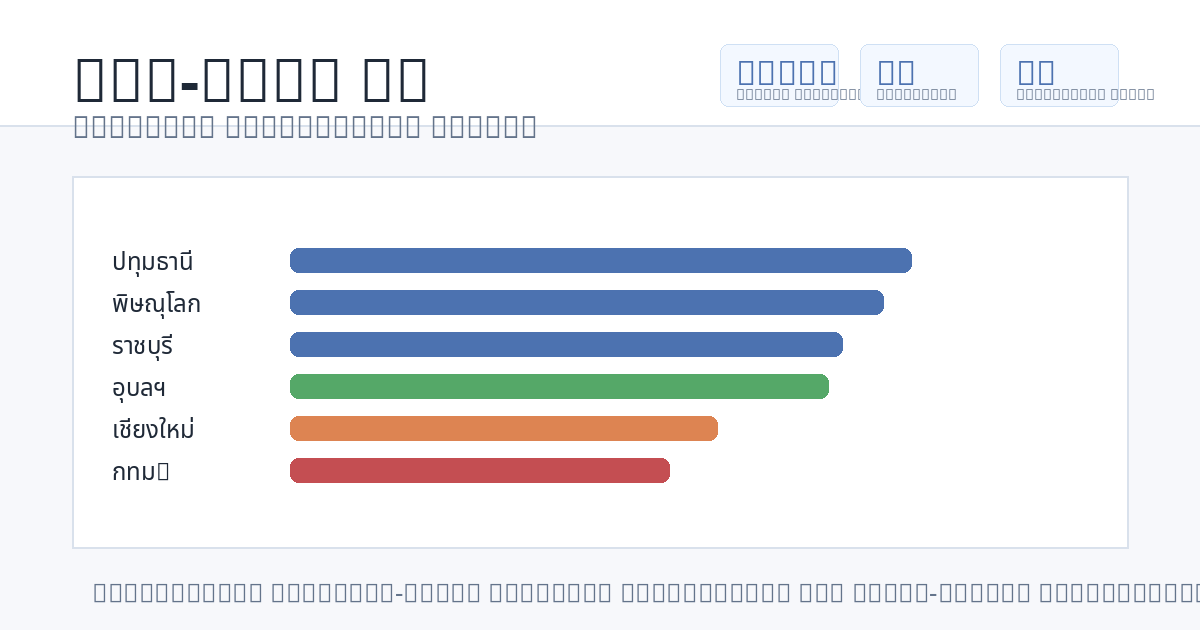
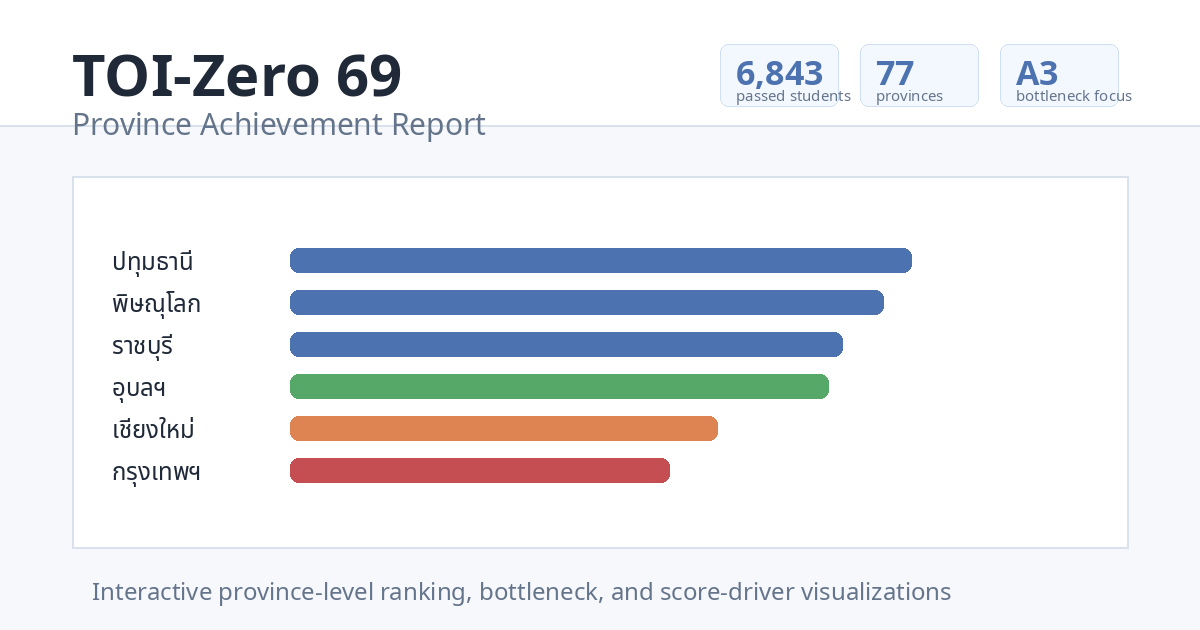
Fix TOI-Zero report OG image fonts

diff --git a/toizero69/province_achievement_report.html b/toizero69/province_achievement_report.html
@@ -11,9 +11,9 @@
   <meta property="og:site_name" content="TOI-Zero 69 Province Achievement">
   <meta property="og:title" content="TOI-Zero 69 Province Achievement Report">
   <meta property="og:description" content="Interactive report for province-level achievement signals, bottlenecks, A3 readiness, and improvement priorities.">
-  <meta property="og:image" content="https://punpiti.github.io/toizero69/og-image-1200x630.png">
-  <meta property="og:image:url" content="https://punpiti.github.io/toizero69/og-image-1200x630.png">
-  <meta property="og:image:secure_url" content="https://punpiti.github.io/toizero69/og-image-1200x630.png">
+  <meta property="og:image" content="https://punpiti.github.io/toizero69/og-image-1200x630-v2.png">
+  <meta property="og:image:url" content="https://punpiti.github.io/toizero69/og-image-1200x630-v2.png">
+  <meta property="og:image:secure_url" content="https://punpiti.github.io/toizero69/og-image-1200x630-v2.png">
   <meta property="og:image:type" content="image/png">
   <meta property="og:image:width" content="1200">
   <meta property="og:image:height" content="630">
@@ -22,7 +22,7 @@
   <meta name="twitter:card" content="summary_large_image">
   <meta name="twitter:title" content="TOI-Zero 69 Province Achievement Report">
   <meta name="twitter:description" content="Interactive province-level dashboard for achievement signals, bottlenecks, and score drivers.">
-  <meta name="twitter:image" content="https://punpiti.github.io/toizero69/og-image-1200x630.png">
+  <meta name="twitter:image" content="https://punpiti.github.io/toizero69/og-image-1200x630-v2.png">
   <title>TOI-Zero 69 Province Achievement Report</title>
   <script src="https://cdn.plot.ly/plotly-2.35.2.min.js"></script>
   <script src="https://cdn.jsdelivr.net/npm/d3@7"></script>